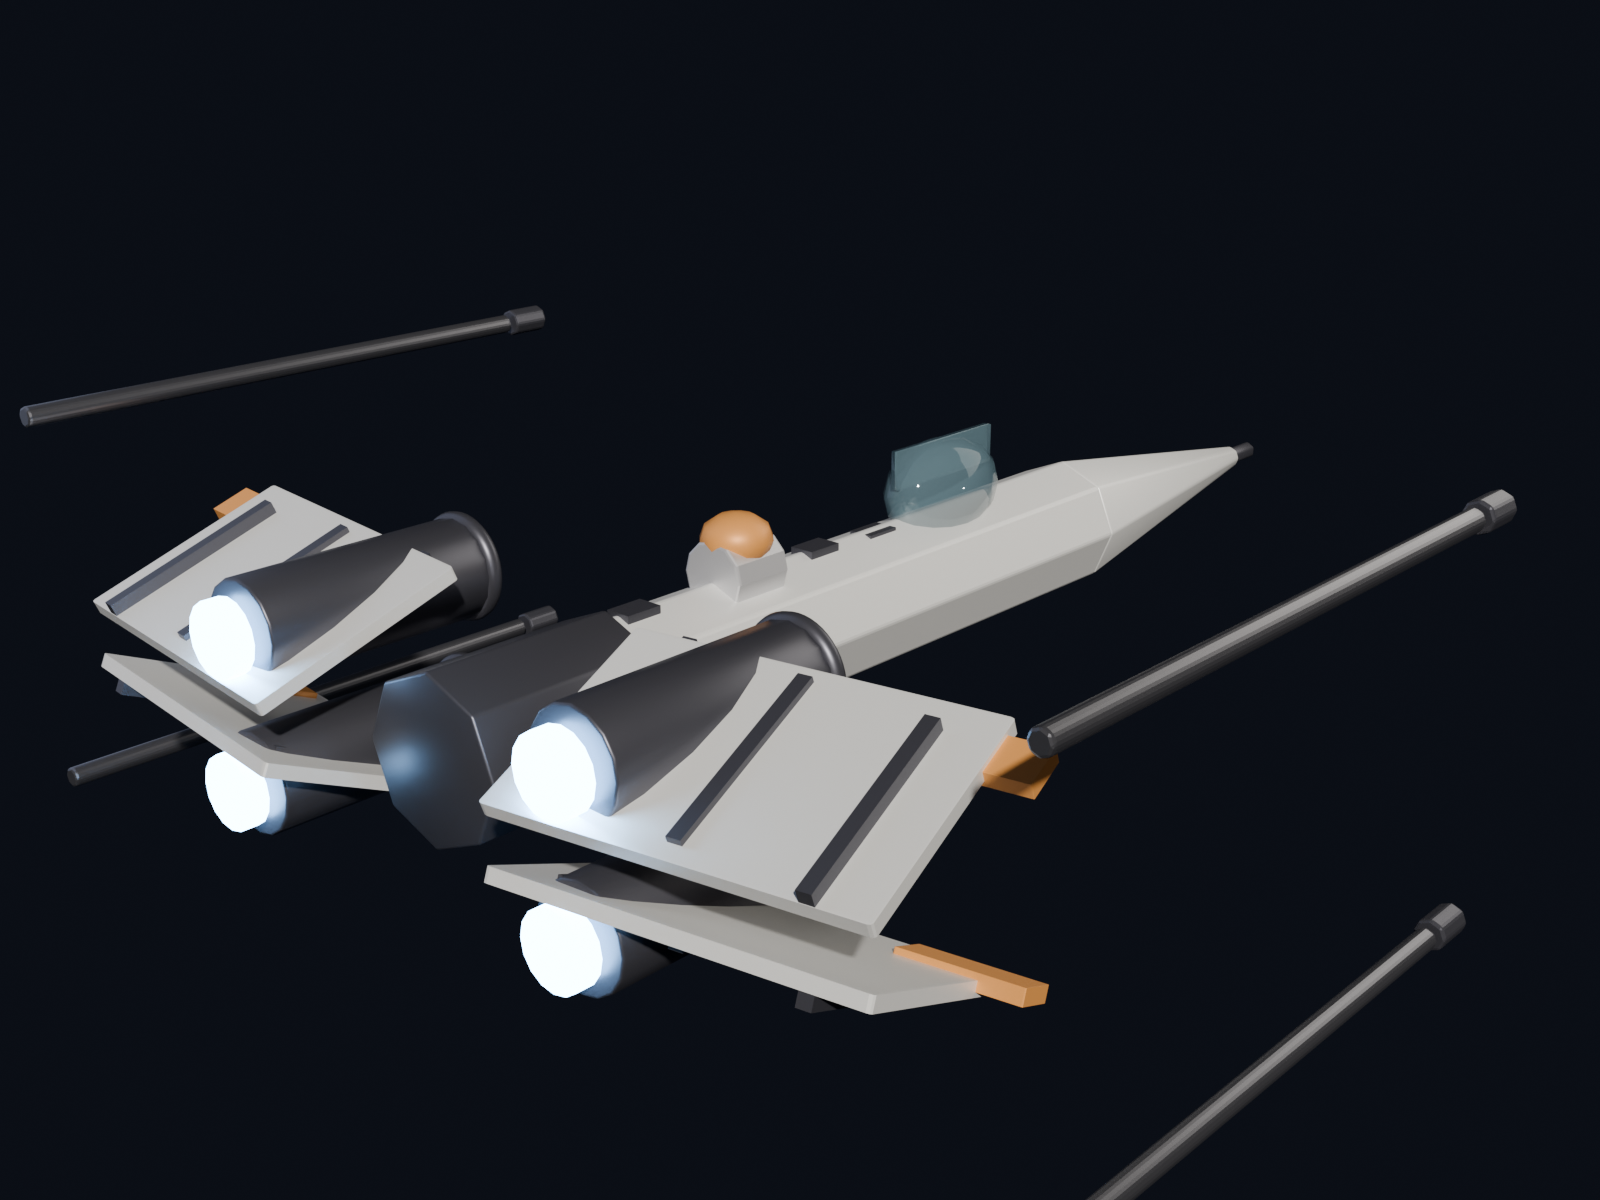
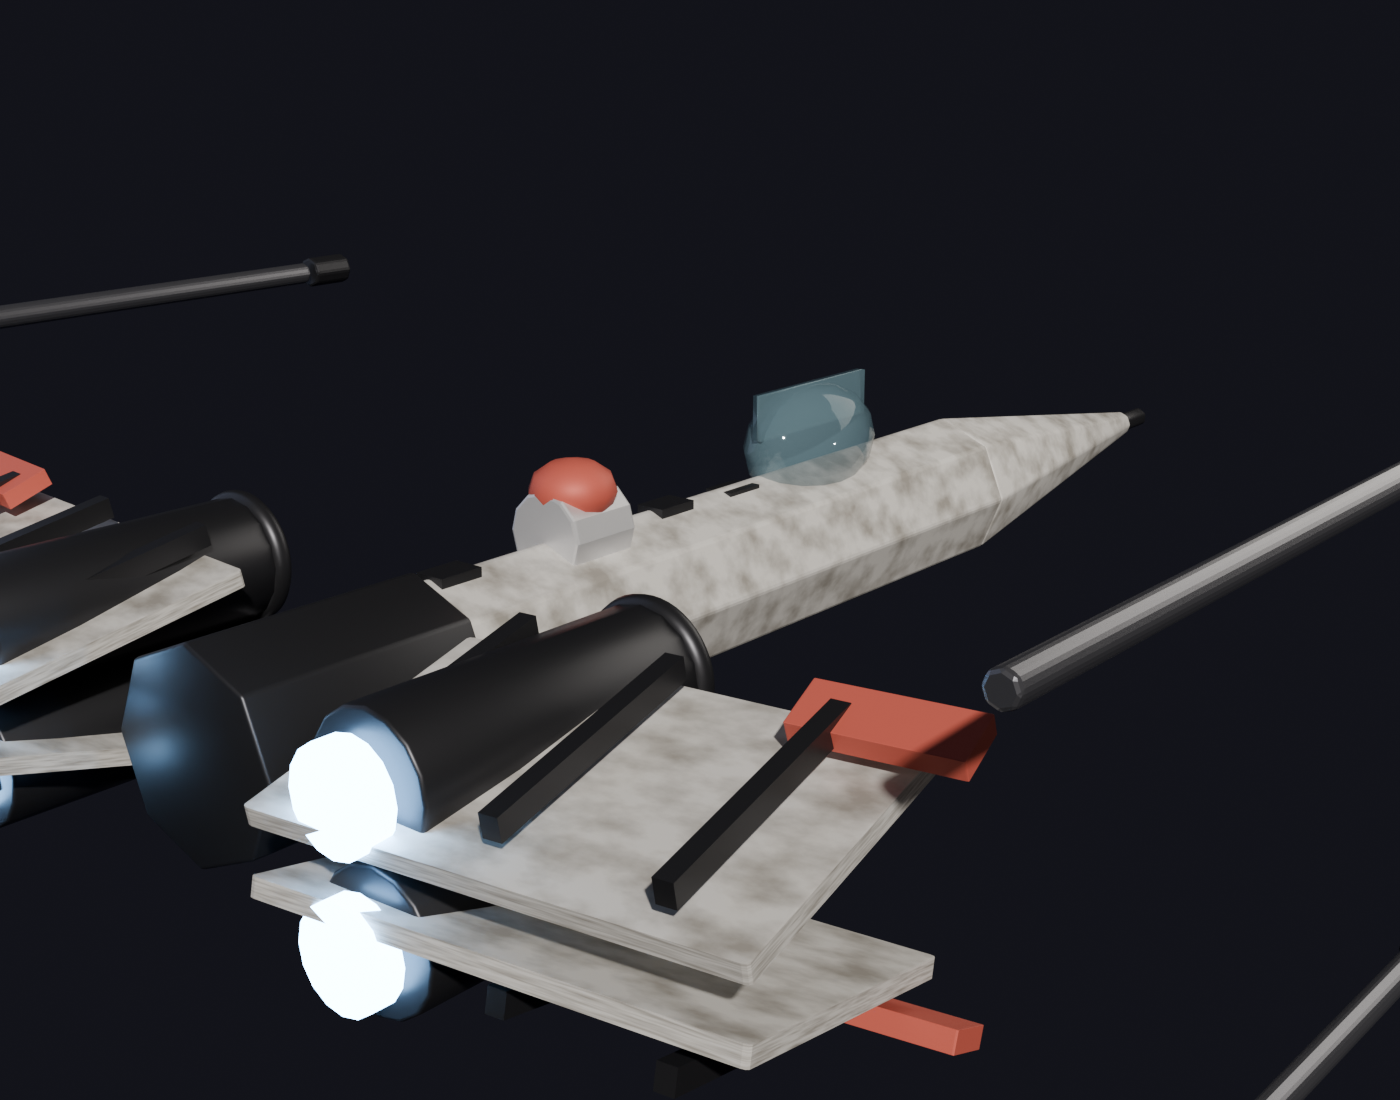
Refine X-wing against rebels_x-wing reference
Tuned my lightweight X-wing toward the downloaded reference model: weathered
grey hull (procedural grime), faded-red markings, deeper dark engine intakes,
tighter screen-accurate open-X wing angle. Still ~400KB (vs reference's 59MB)
so it stays web-shippable. Reference gitignored (heavy, third-party).

diff --git a/blender/space-assets/README.md b/blender/space-assets/README.md
@@ -20,7 +20,7 @@ collide with, fly around, or light. This folder is the game's mesh source.
 ## Assets
 | Asset | File | Status | Notes |
 |-------|------|--------|-------|
-| X-wing fighter | `xwing.glb` | detailed | Player ship. Fuselage + tapered nose + sensor, transparent canopy + frame, R2 astromech dome, 4 open-X S-foil wings with engine nacelles + intake rings + bright recessed glow, 4 forward wingtip cannons, orange stripe accents, wing flutes + greebles, bevelled edges. Y-forward to match `SHIP_MODEL_BASIS_ROTATION`. Source length ≈ 6.26 units. |
+| X-wing fighter | `xwing.glb` | detailed | Player ship. Fuselage + tapered nose + sensor, transparent canopy + frame, R2 astromech dome, 4 open-X S-foil wings with engine nacelles + deep dark intakes + bright recessed glow, 4 forward wingtip cannons, faded-red markings, wing flutes + greebles, bevelled edges. Weathered grey hull (procedural grime) tuned against the `rebels_x-wing_starfighter` reference. Y-forward to match `SHIP_MODEL_BASIS_ROTATION`. Source length ≈ 6.26 units. |
 | Voyager probe | `voyager.glb` | detailed | HGA dish + feed horn + tripod struts + back ribs; gold-foil decagonal bus; 3× RTG with cooling fins; truss-lattice magnetometer mast (3 rails + cross-bracing); scan platform + camera barrels; golden record. 7 per-part materials (gold foil, aluminium dish, struts, RTG, fins, record, instruments). |
 | Sun + 8 planets | `bodies/*.glb` | textured | Real relative radii (sqrt-compressed, Earth = 1 unit) + axial tilts from `astronomy.ts`. Equirect webp maps applied. Sun is emissive. Saturn ships with alpha-mapped ring geometry. Subsurf on the large bodies for close-ups. |
 | Small bodies | `small-bodies/*.glb` | sculpted | Stony asteroid, carbonaceous asteroid, comet nucleus. Multi-octave noise form + bowl-and-rim crater pass + procedural micro-bump. Subsurf applied on export (~930 KB each — high-poly masters; decimate for a web LOD if needed). |
